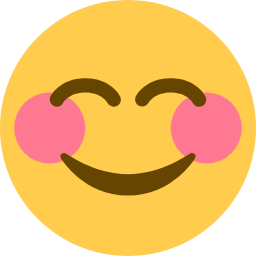
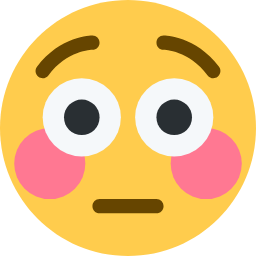
selfloop feelings-compass r1: dock art parity + shy pack + 2nd-cond model
Two read-only judges (teacher/CELTA + student/12yo) on the rendered board.
Single-builder producer fixes + new gates:
- S59: Feelings Lab dock now renders the SAME vocab-pack faces as New Words
  (edbActivities repoints feeling-* dock at VocabIcons.pathForSync + meta.word),
  killing the 3D prop face mismatch, the untaught "angry" read, and stray "?".
- S52 (pack): shy.png was still a smile (pack wins over emoji, same hole S56
  closed for confused) -> fetch-vocab-icons shy to 1f633, re-render; gate the
  pack codepoint against the smile-family.
- S60: frames show a completed second-conditional Model + "fill the blanks".
- S61: comprehension write cards fit on-board (Q3 no longer clipped).
- S62: story body ink near-black (was medium-gray).
Warm-up "add feelings" rejected (tiebreak: S57 target-neutral > aesthetics).
Deferred to wishlist: activity right-third balance, story2 caption/art drift.

diff --git a/public/lib/renderLessonPages.js b/public/lib/renderLessonPages.js
@@ -1020,7 +1020,8 @@
     const p = pageShell(THEME_COLORS.vocab, { pageType: 'frames' });
     const col = chromeColumn(p);
     col.appendChild(header('Sentence Frames', '#7c3aed', { timing: '~6 min' }));
-    col.appendChild(hint('Listen and say each frame first. Then fill the blank and write your sentence.', {
+    // "fill the blank" (singular) was wrong — Frame 3 has TWO blanks (S60/Judge A).
+    col.appendChild(hint('Listen and say each frame first. Then fill the blanks and write your sentence.', {
       marginBottom: '8px', flexShrink: '0',
     }));
     // Word bank — reinforces the taught vocab and scaffolds open frames like
@@ -1061,6 +1062,35 @@
       });
       col.appendChild(bank);
     }
+    // S60 (Judge A / CELTA): the second conditional is the grammar aim but it never
+    // appears in the receptive input — the reading is all past simple and students
+    // meet "If I felt X, I would ___" cold, only in production. Show ONE completed
+    // worked model so learners see the target modeled before they produce it. Uses
+    // a taught feeling + a real completion (no blank) in a distinct example chip.
+    const modelWord = ((lesson.vocabulary || [])
+      .map((v) => (typeof v === 'string' ? v : v && v.word))
+      .filter(Boolean)[0]) || 'worried';
+    const modelSentence = `If I felt ${esc(modelWord)}, I would take a deep breath.`;
+    const model = el('div', {
+      display: 'flex',
+      alignItems: 'baseline',
+      gap: '8px',
+      flexWrap: 'wrap',
+      padding: '8px 14px',
+      marginBottom: '10px',
+      flexShrink: '0',
+      borderRadius: '12px',
+      background: '#ecfdf5',
+      border: '1px solid #a7f3d0',
+    });
+    model.dataset.frameModel = '1';
+    model.appendChild(el('div', {
+      fontSize: '18px', fontWeight: '800', color: '#047857',
+    }, 'Model:'));
+    model.appendChild(el('div', {
+      fontSize: '22px', fontWeight: '700', color: '#065f46', lineHeight: '1.3',
+    }, modelSentence));
+    col.appendChild(model);
     const frames = (lesson.sentenceFrames || []).slice(0, 3);
     const rows = Math.max(1, frames.length);
     const lens = frames.map((f) => String(f || '').length);
@@ -1391,8 +1421,10 @@
       fillStoryArtSlot(banner, lesson, page, false);
       content.appendChild(banner);
       // One flowing paragraph — fill the card; bigger type when there is room.
+      // Story body ink is near-black + heavier weight so it never washes out on the
+      // light card (S62 / Judge B: medium-gray body read as low contrast projected).
       const text = card(
-        `<div style="font-size:${textSize}px;line-height:1.45;color:#1e293b;font-weight:600;width:100%">${esc(storyText)}</div>`,
+        `<div data-story-body style="font-size:${textSize}px;line-height:1.45;color:#0f172a;font-weight:700;width:100%">${esc(storyText)}</div>`,
         {
           flex: '1',
           marginBottom: '0',
@@ -1431,7 +1463,7 @@
       ));
 
       const text = card(
-        `<div style="font-size:${textSize}px;line-height:1.45;color:#1e293b;font-weight:600">${esc(storyText)}</div>`,
+        `<div data-story-body style="font-size:${textSize}px;line-height:1.45;color:#0f172a;font-weight:700">${esc(storyText)}</div>`,
         {
           flex: '1',
           marginBottom: '0',
@@ -1476,8 +1508,12 @@
       display: 'grid',
       // One question must own the full column — a spare 1fr row left half the board dead (M8).
       gridTemplateRows: `repeat(${rows}, 1fr)`,
-      gap: '16px',
+      // S61 (Judge B): 3 cards with 100px write floors + 16px gaps overflowed the
+      // board and clipped Q3's write box off the bottom. Tighter gap keeps all
+      // three fully on-board.
+      gap: '12px',
       width: '100%',
+      overflow: 'hidden',
     });
     if (!questions.length) {
       const empty = card(
@@ -1490,16 +1526,17 @@
     } else {
       questions.forEach((q, i) => {
         const qCard = card(
-          `<div style="font-size:30px;font-weight:800;line-height:1.25;color:#0f172a;margin-bottom:14px;flex-shrink:0">${i + 1}. ${esc(q.question || '')}</div>
-           <div style="border:2px dashed #94a3b8;border-radius:14px;flex:1;min-height:100px;background:rgba(248,250,252,0.9)"></div>`,
+          `<div style="font-size:28px;font-weight:800;line-height:1.2;color:#0f172a;margin-bottom:10px;flex-shrink:0">${i + 1}. ${esc(q.question || '')}</div>
+           <div data-comp-write style="border:2px dashed #94a3b8;border-radius:14px;flex:1;min-height:60px;background:rgba(248,250,252,0.9)"></div>`,
           {
-            padding: '18px 22px',
+            padding: '14px 20px',
             marginBottom: '0',
             height: '100%',
             minHeight: '0',
             display: 'flex',
             flexDirection: 'column',
             boxSizing: 'border-box',
+            overflow: 'hidden',
           }
         );
         // Big write region on purpose — not a sparse text card (M3).

diff --git a/public/lib/edbActivities.js b/public/lib/edbActivities.js
@@ -904,6 +904,27 @@
         out.push(p);
       }
     }
+
+    // S59 (both selfloop judges): the Feelings Lab dock rendered realistic 3D boy
+    // faces (09_props/feeling-*) — a DIFFERENT visual vocabulary from the flat
+    // Twemoji the New Words match dock teaches. The picture→word mapping students
+    // just built did not transfer, one prop face read as an untaught "angry", and
+    // a prop carried a floating "?". Repoint every feeling dock piece at the SAME
+    // vetted vocab-pack PNG New Words uses (square, aspect 1) so both drag surfaces
+    // show one consistent, mutually-distinct face set. Keeps the feeling-* key so
+    // feelingDockCount/S49 still counts it; carries the word so pieceToPng →
+    // wordArtPng resolves the pack art.
+    if (feelings) {
+      const VI = window.VocabIcons;
+      const packSync = VI && typeof VI.pathForSync === 'function' ? VI.pathForSync.bind(VI) : null;
+      return out.map((p) => {
+        const m = /^feeling-(.+)$/.exec(String(p.key || ''));
+        const word = m ? m[1] : null;
+        const packPath = word && packSync ? packSync(word) : null;
+        if (!word || !packPath) return p;
+        return Object.assign({}, p, { path: packPath, aspect: 1, feelWord: word });
+      });
+    }
     return out;
   }
 
@@ -1106,7 +1127,9 @@
             bleed: 'edge',
             _force: { x, y, w, h },
             role: 'dockPiece',
-            meta: { propKey: t.key, propAspect: t.aspect },
+            meta: t.feelWord
+              ? { propKey: t.key, propAspect: t.aspect, word: t.feelWord }
+              : { propKey: t.key, propAspect: t.aspect },
           });
           originX = x + w + gap;
         });

diff --git a/public/lib/vocabIcons.js b/public/lib/vocabIcons.js
@@ -258,6 +258,20 @@
     return IMG_BASE + file;
   }
 
+  /**
+   * Synchronous pack-path resolver — only works after ready()/loadIndex has
+   * populated indexCache. Lets the board planner (buildBoardPlan, synchronous)
+   * repoint feeling dock pieces at the SAME vetted pack PNG the New Words match
+   * dock renders, so both drag surfaces show one consistent face set (S59).
+   */
+  function pathForSync(word) {
+    if (!indexCache) return null;
+    const key = resolveKey(indexCache, word);
+    if (!key) return null;
+    const file = indexCache[key].file;
+    return IMG_BASE + file;
+  }
+
   async function has(word) {
     return (await pathFor(word)) != null;
   }
@@ -276,6 +290,7 @@
 
   window.VocabIcons = {
     pathFor,
+    pathForSync,
     has,
     loadPng,
     emojiFor,

diff --git a/docs/content-wishlist.md b/docs/content-wishlist.md
@@ -74,6 +74,14 @@ Gaps in **lesson content** — not art. For us (agent + you) when something teac
 | 2026-08-08 | Student judge asked to number/label the draggable feeling emoji to pre-map them to the numbered pads | feelings New Words | REJECT — would reveal the match and violate S26/S58 no-answer-naming. Pedagogy: solve guessing via unambiguous, mutually-distinct icons (S56), keep drag pieces label/number-free; numbered PADS (targets) stay clear | wont-fix |
 | 2026-08-08 | No lesson/topic coverage for **health** (doctor, dentist, first-aid, sick/hurt) or **community** (helpers + places: post office, market, bus stop) — no fixtures and no keyed prop pack | shift10 gptbrief/assetswarm coverage scan | Candidate white-key prop pack + lesson topic. EDGE-RISK: medical accuracy + cultural sensitivity — prompts need careful review, not a blind swarm. **Art home = `asset-wishlist.md`** (mirror there next pass); logged here as a topic-coverage gap. | open |
 | 2026-08-08 | Guidance: **emotions / nature / prepositions are NOT prop-pack candidates** — do not send to a white-key swarm | shift10 topic-routing note | emotions = faces already tracked (feeling-* regen row above, cue-clarity); nature + prepositions are abstract/relational, don't key as single objects on black. Route these as vocab icons / backgrounds / activity design, never as prop cutouts. | open |
+| 2026-08-08 | Feelings Lab drag dock rendered 3D `feeling-*` prop faces — a DIFFERENT face vocabulary from the flat Twemoji taught on New Words; picture→word mapping didn't transfer, one prop read as untaught "angry", one carried a floating "?" | selfloop r1 (teacher+student HIGH) feelings page-10-activity | edbActivities roleplayDockProps repoints feelings dock at the vocab-pack PNG (VocabIcons.pathForSync) + meta.word so pieceToPng→wordArtPng renders the same set; S59 gate (dock art = 07_vocab-pack, no 09_props feeling face) | verified |
+| 2026-08-08 | REVERSAL of S52 emoji-only fix: shy still read as happy's smile — the New Words dock renders the vocab-pack PNG (wordArtPng), so shy.png=😊 (1f60a) beat the emojiFor override (same gate hole S56 closed for confused) | selfloop r1 feelings New Words | fetch-vocab-icons shy 😊→😳 (1f633) + re-render shy.png; S52 extended with a pack-codepoint smile-family guard | verified |
+| 2026-08-08 | Second-conditional grammar aim never modeled in the input — reading is all past simple, students meet "If I felt X, I would ___" cold only in production | selfloop r1 (teacher CELTA) feelings page-4-frames | makeFrames renders a green worked Model chip ("If I felt worried, I would take a deep breath.") + "fill the blanks" plural; S60 gate (completed If…would model, no blank) | verified |
+| 2026-08-08 | Comprehension Q3 write-in box clipped off the bottom edge (3 cards × 100px write floors + 16px gaps overflowed the board) | selfloop r1 (student) feelings page-8-comprehension | makeComprehension tighter grid (gap 12, write min 60, q 28px) + overflow guard; S61 gate (write cards on-board) | verified |
+| 2026-08-08 | Story body copy read as medium-gray, washed out projected | selfloop r1 (student) feelings story beats | makeStoryPage body ink #1e293b→#0f172a weight 700, data-story-body; S62 gate (near-black) | verified |
+| 2026-08-08 | Activity heroStage still lopsided — instruction+answer crammed top-left, big empty right third, dock as a bottom band (dock art + size now fixed via S59, but overall balance not yet) | selfloop r1 (student) feelings page-10-activity | Deferred to round 2 — rebalance heroProp columns (pull write strip / dock toward centre, fill right third). Overlaps prior open row (line ~69) | open |
+| 2026-08-08 | Warm-up feels sparse (one question + large empty box) — student wanted example feelings added | selfloop r1 feelings page-1-warm | TIEBREAK (pedagogy>aesthetics): do NOT add taught feeling faces/words — that violates S57 target-neutral warm-up. Fill vertically with neutral scaffold only if needed; keep eliciting prior knowledge | wont-fix |
+| 2026-08-08 | Story beat 3 caption leads "surprised" but the generated illustration shows Mia leaving happy | selfloop r1 (teacher) feelings page-7-story2 | StoryArt is generative from caption+text — image/caption feeling-lead can drift. Uncheckable in producer without regen; consider caption lead alignment or story-art prompt emphasis next loop | open |
 
 <!-- Classical compose note (2026-08-07): Activity dock + skipKing piano-on-piano fixed (f21ca03). Manus dual reviews LbVd…/oEDh… folded into producer 2026-08-07. Story glyphs still open. Manusloop J4up… revise/72 folded: pickImages + inspire override + aims/frames/story. Second live pass USYe… pass/98 — numbered pads + pieceToPng pad fix. Shift20: Manus skill delta → schema scorecard/ZPD + S30–S32 producer. Shift21: live Manus LgtX… revise/84 → S26 caption bake kill + S29 king timing + S33–S37. Shift22 assetgap+manus x2: inspire.png + RWiY → S38/S39. -->
 

diff --git a/.cursor/loops/self-feelings-compass.md b/.cursor/loops/self-feelings-compass.md
@@ -59,6 +59,37 @@ Merged teacher+student fix list, priority order:
 (present in index.json + vocabIcons SAFE_EMOJI but missing from its WORDS map).
 Added those 5 to WORDS so pack rebuilds are self-consistent and can't nuke them.
 
+## Round 3 (selfloopx2 — round 1) — 2026-08-08
+
+Judges on rendered JPGs. **A (teacher/CELTA):** 6 findings (1 HIGH, 2 MED, 3 LOW).
+**B (student/12yo):** 10 findings (3 HIGH, 3 MED, 4 LOW). **Merged → 9** after dedupe.
+
+| # | Sev | Finding (judges) | Producer fix | Gate |
+|---|-----|------------------|--------------|------|
+| 1 | HIGH (A+B) | Feelings Lab dock = 3D `feeling-*` prop faces, different art from New Words flat Twemoji; mapping doesn't transfer + one reads "angry" + floating "?" | `roleplayDockProps` feelings → repoint dock at vocab-pack PNG (`VocabIcons.pathForSync`) + `meta.word`; both drag surfaces now share one vetted, mutually-distinct face set | **S59** |
+| 2 | HIGH→MED (B+A) | New Words dock far-right + dead centre gap; shy≈happy (both smiles) | shy pack gate-hole: `shy.png`=😊 beat emoji override (pack wins, like S56/confused) → `fetch-vocab-icons` shy 😊→😳 (1f633) + re-render | **S52 pack** |
+| 3 | MED (A) | 2nd conditional never modeled receptively (reading all past simple) | `makeFrames` green worked **Model** chip "If I felt worried, I would take a deep breath." + "fill the blanks" plural | **S60** |
+| 4 | MED (B) | Comprehension Q3 write box clipped off board bottom | `makeComprehension` tighter grid (gap 12 / write 60 / q 28px) + overflow guard | **S61** |
+| 5 | MED (B) | Story body medium-gray, washes out projected | `makeStoryPage` body ink → #0f172a weight 700 (`data-story-body`) | **S62** |
+| 6 | HIGH (B) | Activity page lopsided / empty right third | Dock art+size fixed (S59); overall balance **deferred to round 2** | wishlist |
+| 7 | MED (B) | Warm-up sparse; wanted example feelings | **TIEBREAK pedagogy>aesthetics:** reject — would break S57 target-neutral | wishlist (wont) |
+| 8 | LOW (A) | Story2 caption leads "surprised" but art shows happy | StoryArt generative drift — uncheckable in producer | wishlist |
+| 9 | LOW (A/B) | Title right-half dead space | cosmetic; carried open | wishlist |
+
+**Conflict tiebreak recorded:** B wanted feeling faces on the warm-up (fill dead space);
+A's S57 target-neutral honesty wins → warm-up stays neutral (no taught feelings).
+
+### New gates (continue S-series)
+- **S59** — Feelings Lab dock renders the same 07_vocab-pack art as New Words (word set + asset source; no 09_props feeling face). Honesty/navigable.
+- **S60** — a completed second-conditional model is on the frames board (If…would, no blank). Honesty.
+- **S61** — comprehension write-in cards sit fully on-board (no clip). Navigable.
+- **S62** — story body ink is near-black. Readable.
+- **S52 (pack)** — shy.png codepoint not a smile-family Twemoji (closes the pack-wins-over-emoji hole, mirrors S56).
+
+### Producer note
+`VocabIcons.pathForSync` added (sync pack path from cached index) so the synchronous
+board planner can share New Words' art on the activity dock.
+
 ## Last run
 
 - **When:** 2026-08-08 (selfloop round 2, final)
